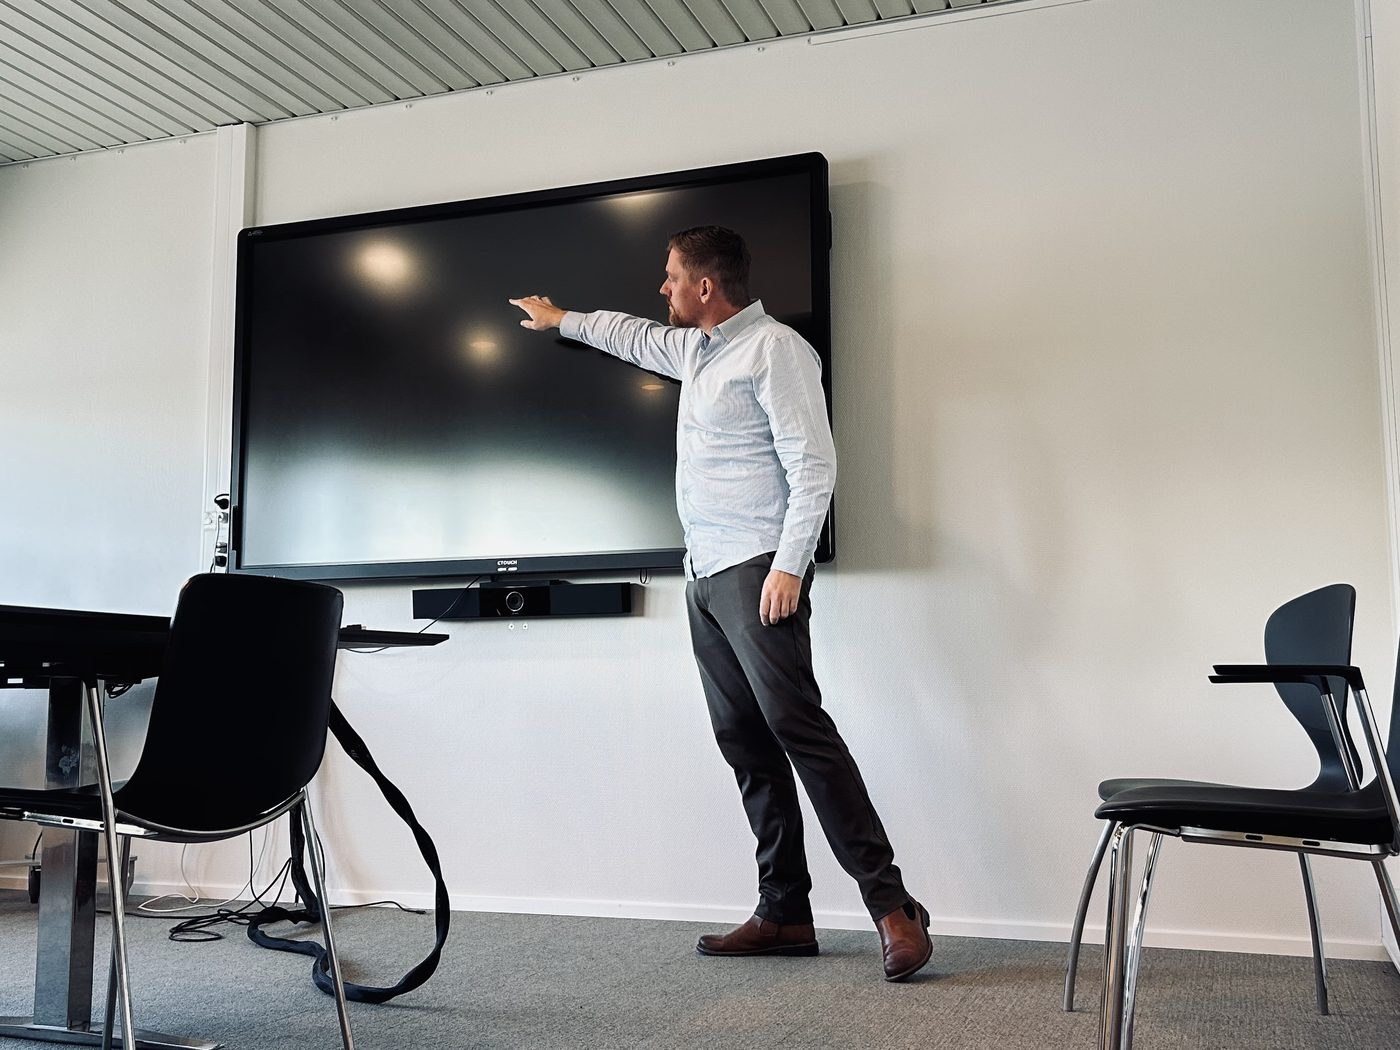
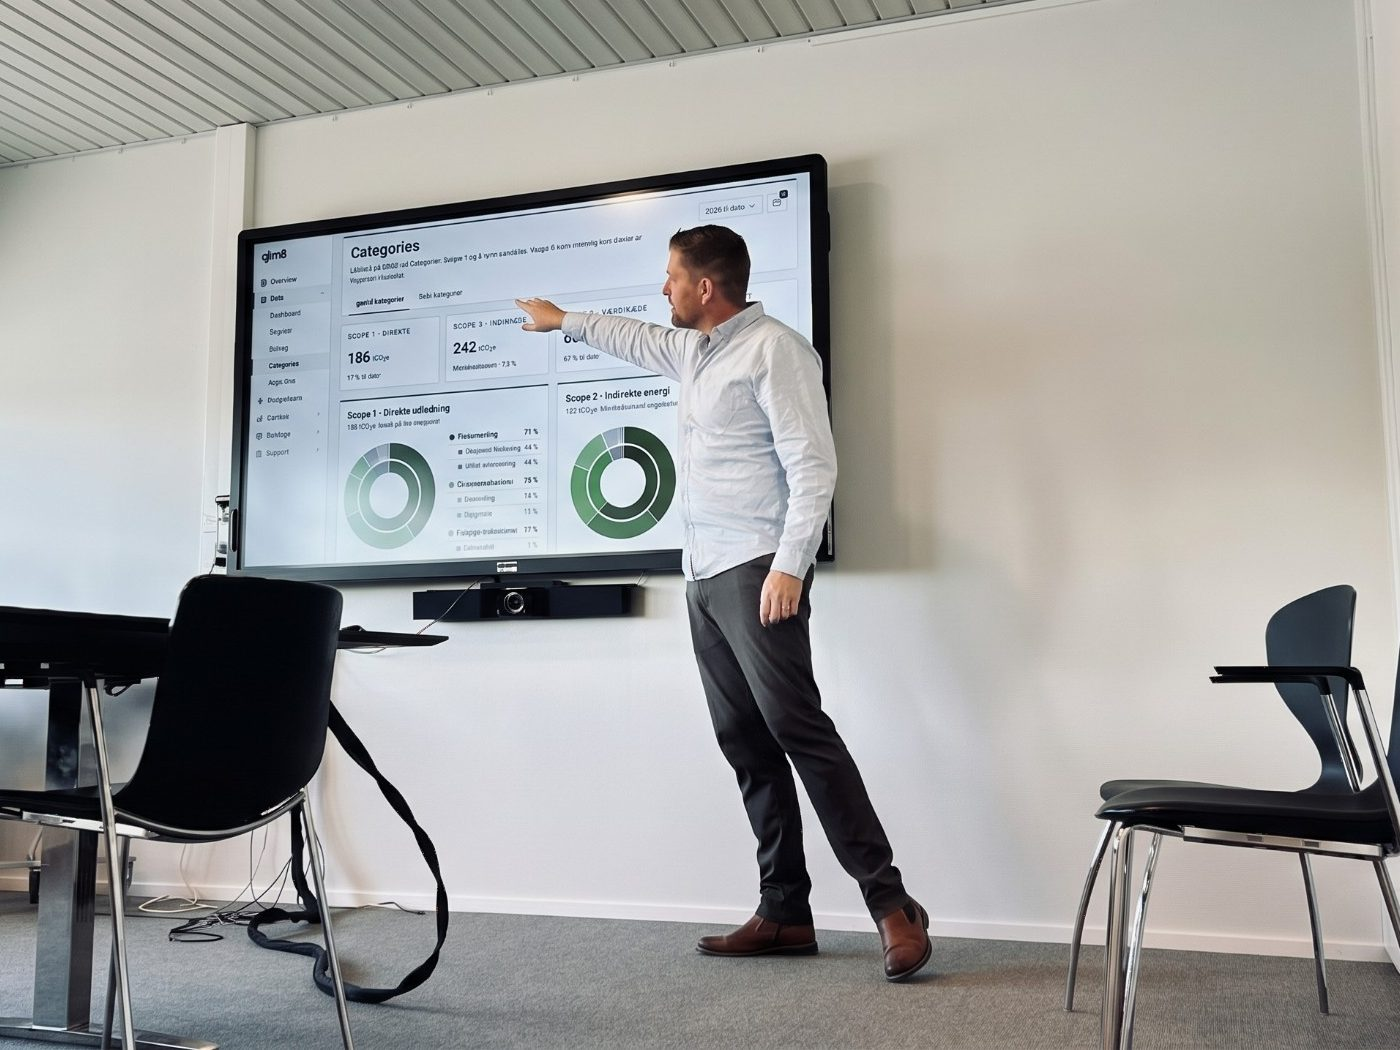
Use presentation photo with the climate dashboard on screen
Replace the photo with the black screen by the same shot showing a
scope 1-3 dashboard, and update its alt text.

Claude-Session: https://claude.ai/code/session_01CbPKPo3qpTkv6TmqdFhqtD

diff --git a/public_html/index.html b/public_html/index.html
@@ -113,7 +113,7 @@
     <p class="body-lg">Bæredygtighed uden teknisk og metodisk fundament bliver hurtigt til overfladiske hensigtserklæringer. Som civilingeniør i Energiteknologi og -Systemer kombinerer jeg hands-on erfaring med varmekonverteringer, solcelle-/batterianlæg og bygningsklimaskærme med operationel ledelseserfaring og dyb indsigt i EU-rapporteringskrav (CSRD, VSME, ESRS).</p>
     <p class="body-lg">Som tidligere seniorrådgiver for et af Danmarks mest succesfulde erhvervskonsulenthuse har jeg været med til at hente brosteparten af de statslige puljemidler til grøn omstilling hjem til private virksomheder. Det giver dig undervisning og rådgivning, der ikke blot forholder sig til reglerne, men viser, hvordan investeringerne regnes hjem i praksis.</p>
   </div>
-  <img class="figure-img" src="/assets/img/praesentation.jpg" width="1400" height="1050" loading="lazy" style="aspect-ratio:4/3" alt="Mads Dahlén Lund-Nielsen præsenterer ved en skærm under et oplæg om ESG">
+  <img class="figure-img" src="/assets/img/praesentation.jpg" width="1400" height="1050" loading="lazy" style="aspect-ratio:4/3" alt="Mads Dahlén Lund-Nielsen gennemgår et klimaregnskab fordelt på scope 1, 2 og 3 på en storskærm">
 </section>
 
 <section class="band">
